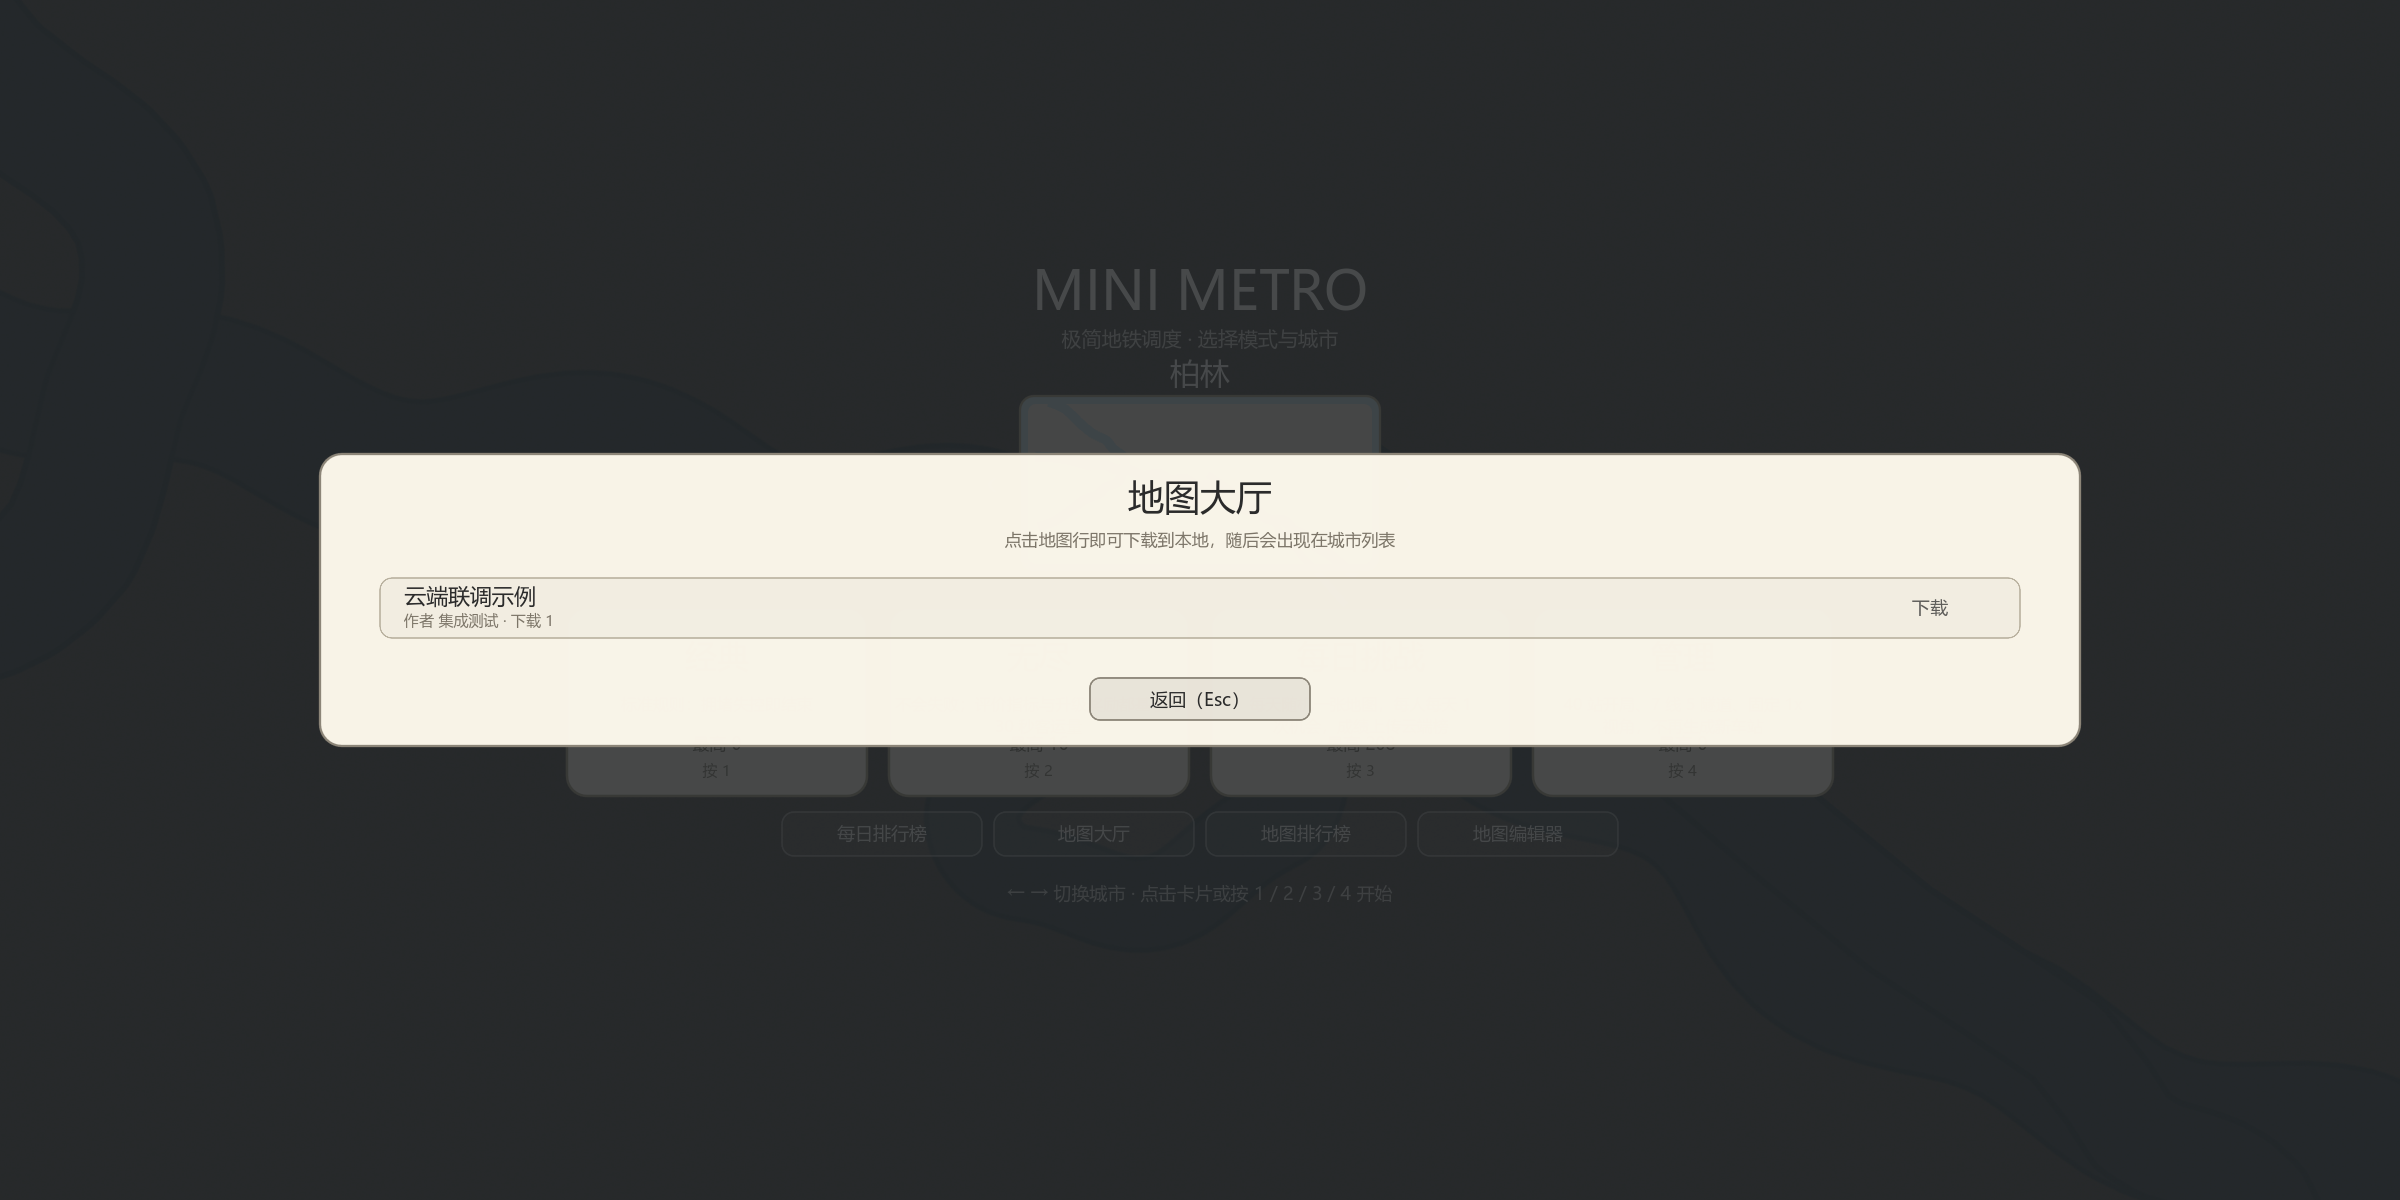
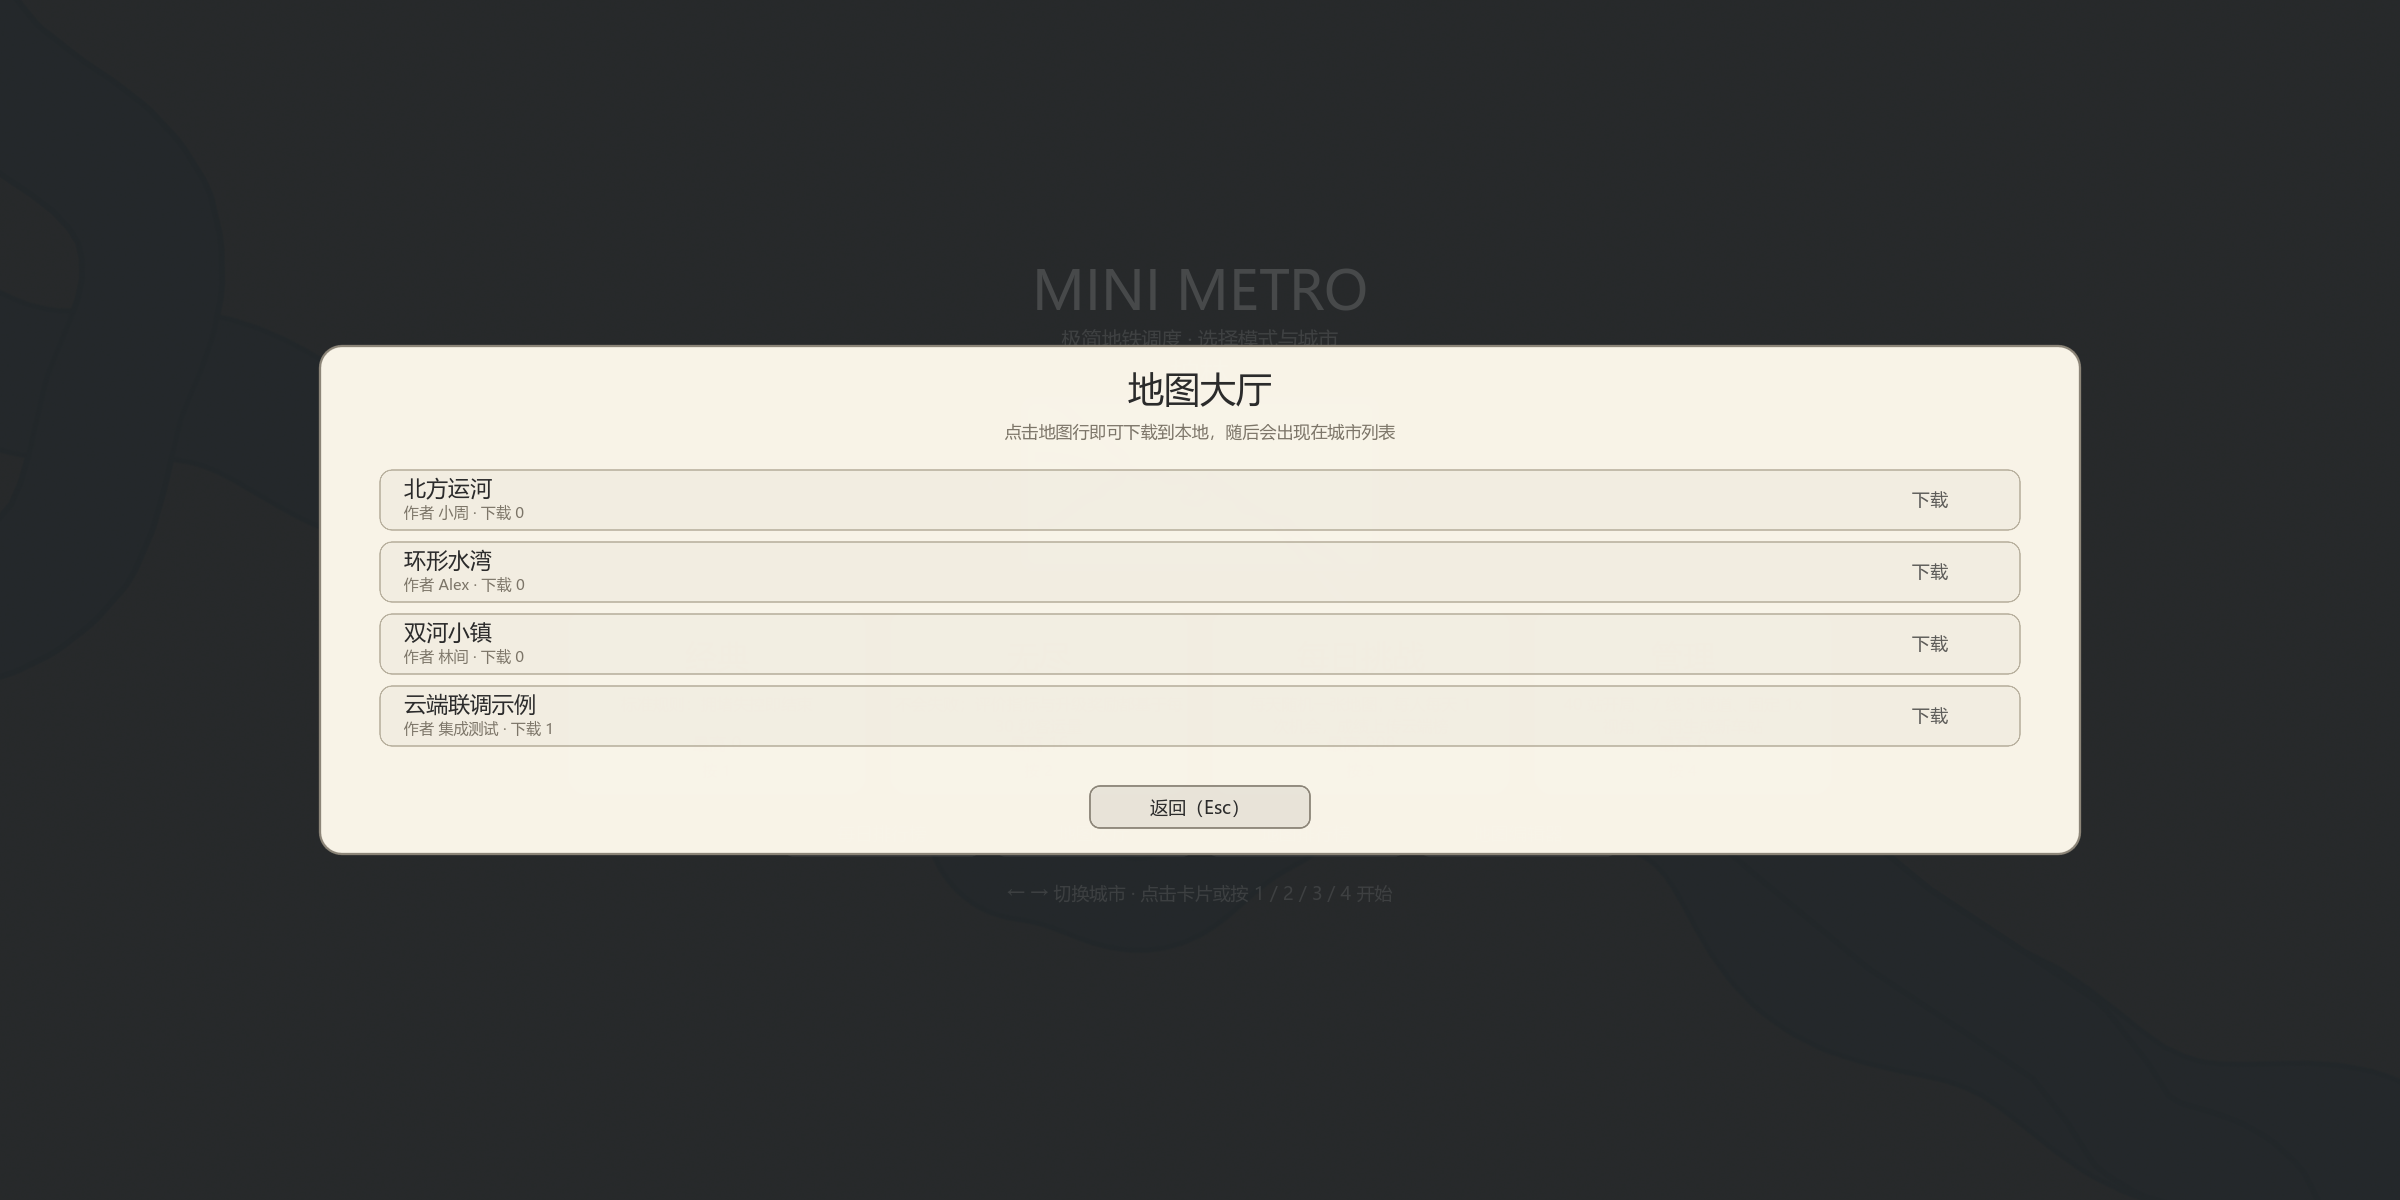
Fix Android cloud access: INTERNET permission + cloud status label
- Android export preset now explicitly includes INTERNET and
  ACCESS_NETWORK_STATE; previous APK had no network permission, so Supabase
  requests failed on phones and the local seeded boards looked like random data.
- CloudService reports remote status (cloud connected/loading/offline) and the
  daily/map-rank leaderboard subtitle shows it; UI still refreshes on updated.
- Seeded three real sample maps in Supabase map hall; tests tolerate cached
  local map counts; 768 checks pass.
- APK re-exported and verified manifest has INTERNET/ACCESS_NETWORK_STATE.

Changed region(s): [[0.125, 0.2775, 0.875, 0.74]]

diff --git a/README.md b/README.md
@@ -197,6 +197,7 @@
 ## 手机版（Android）
 
 - 项目已配置 Android 导出预设 `Android`（`export_presets.cfg`），横屏、`gl_compatibility` 移动渲染、ETC2/ASTC 纹理、触摸模拟鼠标
+- Android 预设已加入 `INTERNET` 与 `ACCESS_NETWORK_STATE` 权限（云端排行榜/地图大厅必需；旧 APK 缺少权限时会显示本地随机示例数据）
 - 已生成调试签名 APK：`build/MiniMetro.apk`（可直接安装测试；应用 id `com.minimetro.paper`）
 - 安装：`adb install -r build/MiniMetro.apk`，或把 APK 传到手机点击安装
 - 正式上架需要自己的 release keystore：在 `export_presets.cfg` 的 Android 预设里填 `keystore/release` 与密码，再用 `godot --export-release "Android" build/MiniMetro-release.apk`
